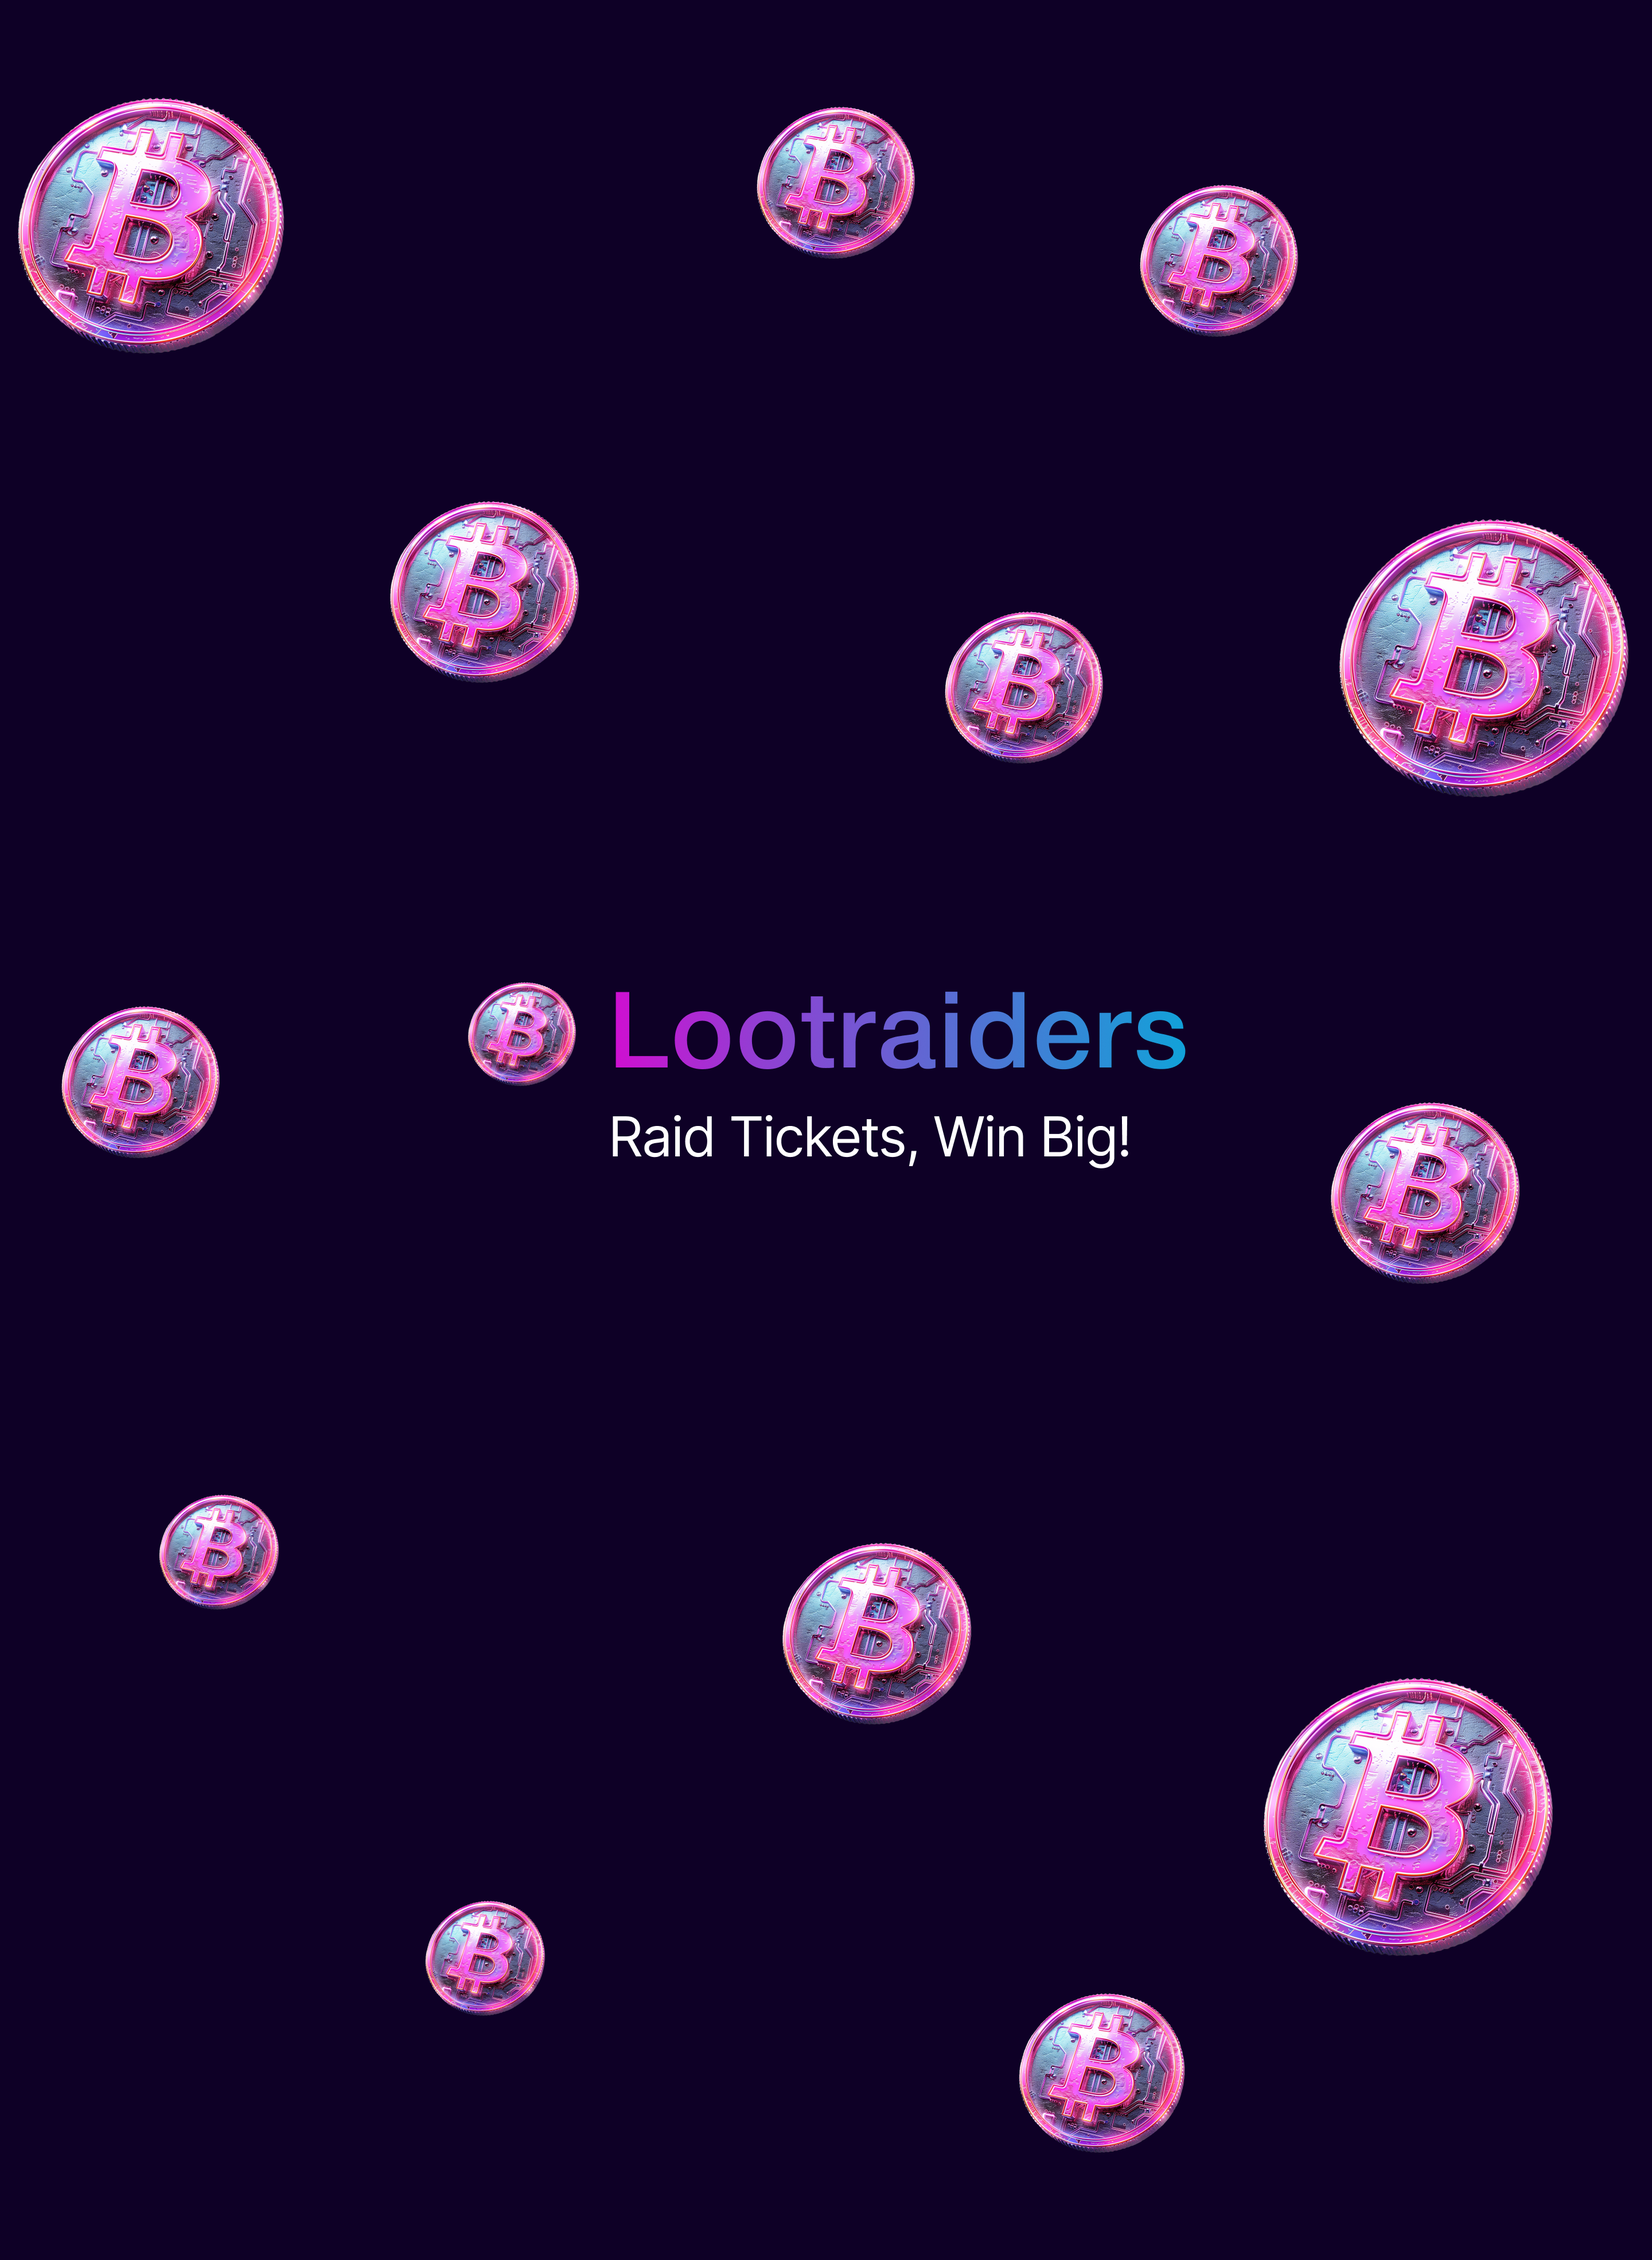
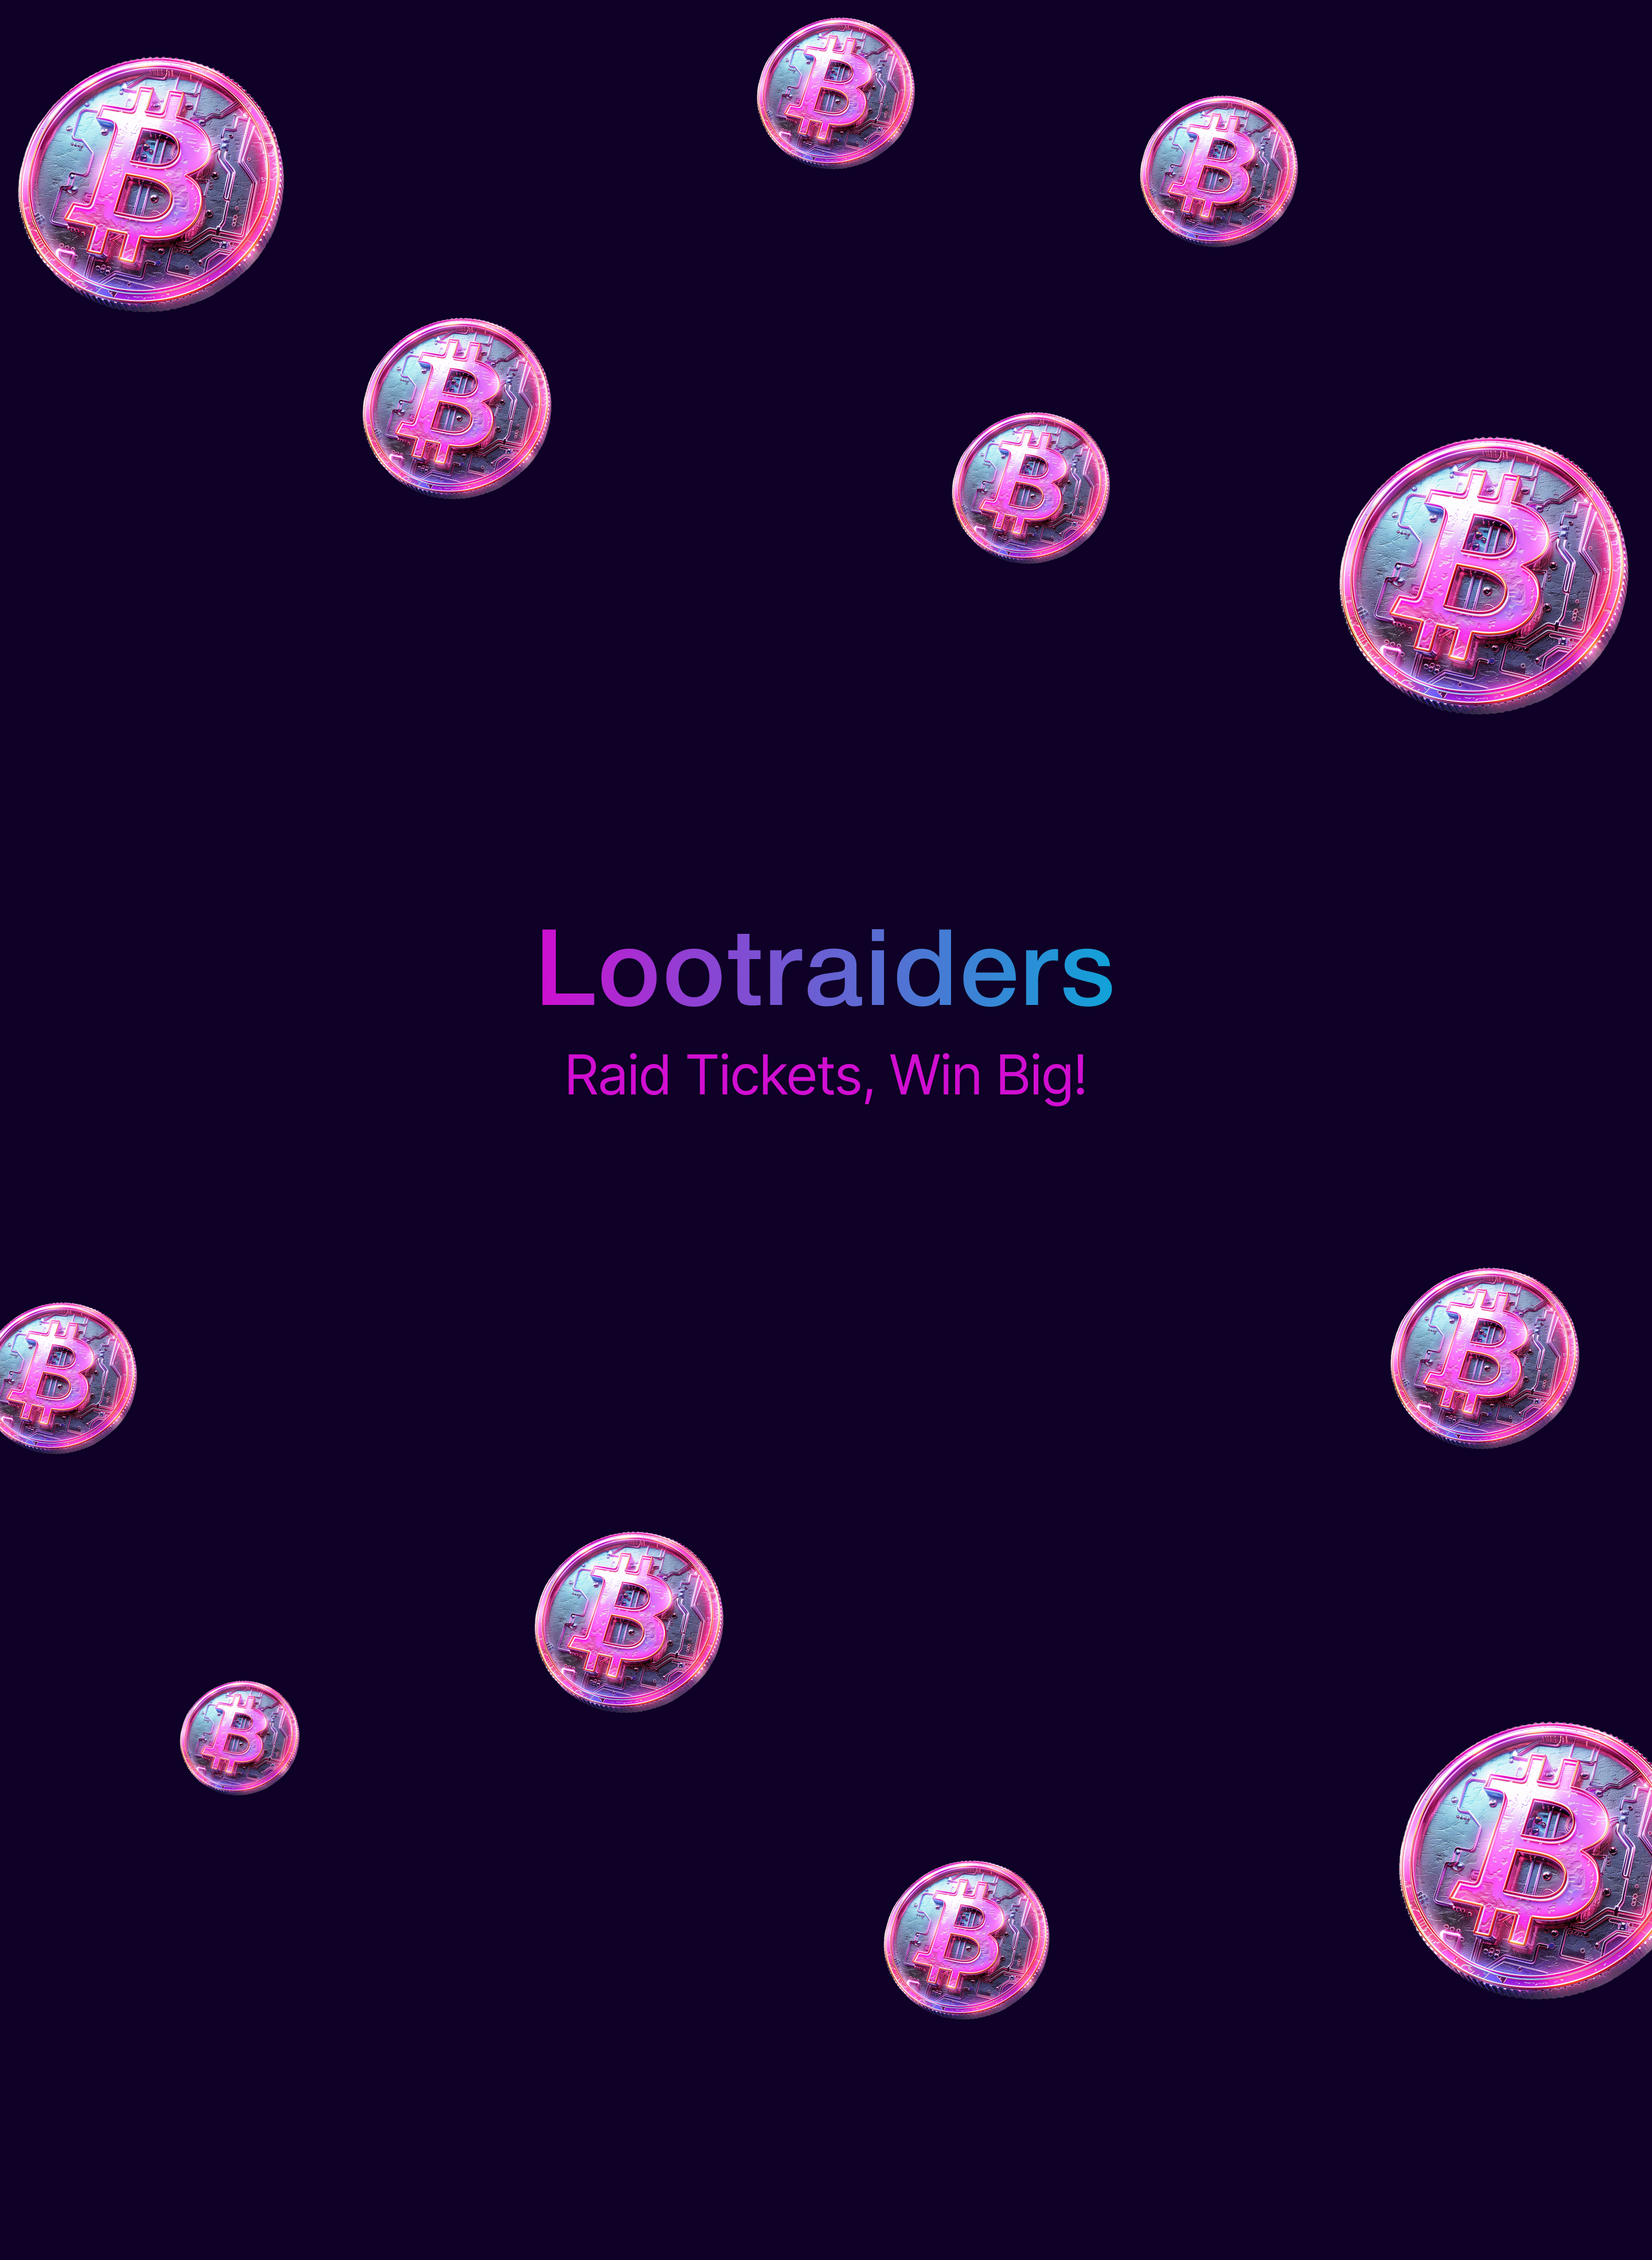
workin o frontend updates

diff --git a/resources/css/global.css b/resources/css/global.css
@@ -7,8 +7,8 @@
 
 body {
     /* overflow-x: hidden; */
-    background: linear-gradient(to right, #efadff, #a3d0ff);
-    color: #ffffff;
+    background: linear-gradient(135deg, #440640, #29084F, #1A0C48);
+    color: #1F0B46;
 }
 
 a {

diff --git a/resources/views/livewire/inc/header.blade.php b/resources/views/livewire/inc/header.blade.php
@@ -4,7 +4,7 @@
          <!-- Logo -->
          <div class="d-flex align-items-center">
              <a href="#" class="me-3">
-                 <img src="{{ asset('assets/images/Logo.png') }}" alt="Logo" height="40">
+                 <img src="{{ asset('assets/images/new logo.png') }}" alt="Logo" height="40">
              </a>
          </div>
 
